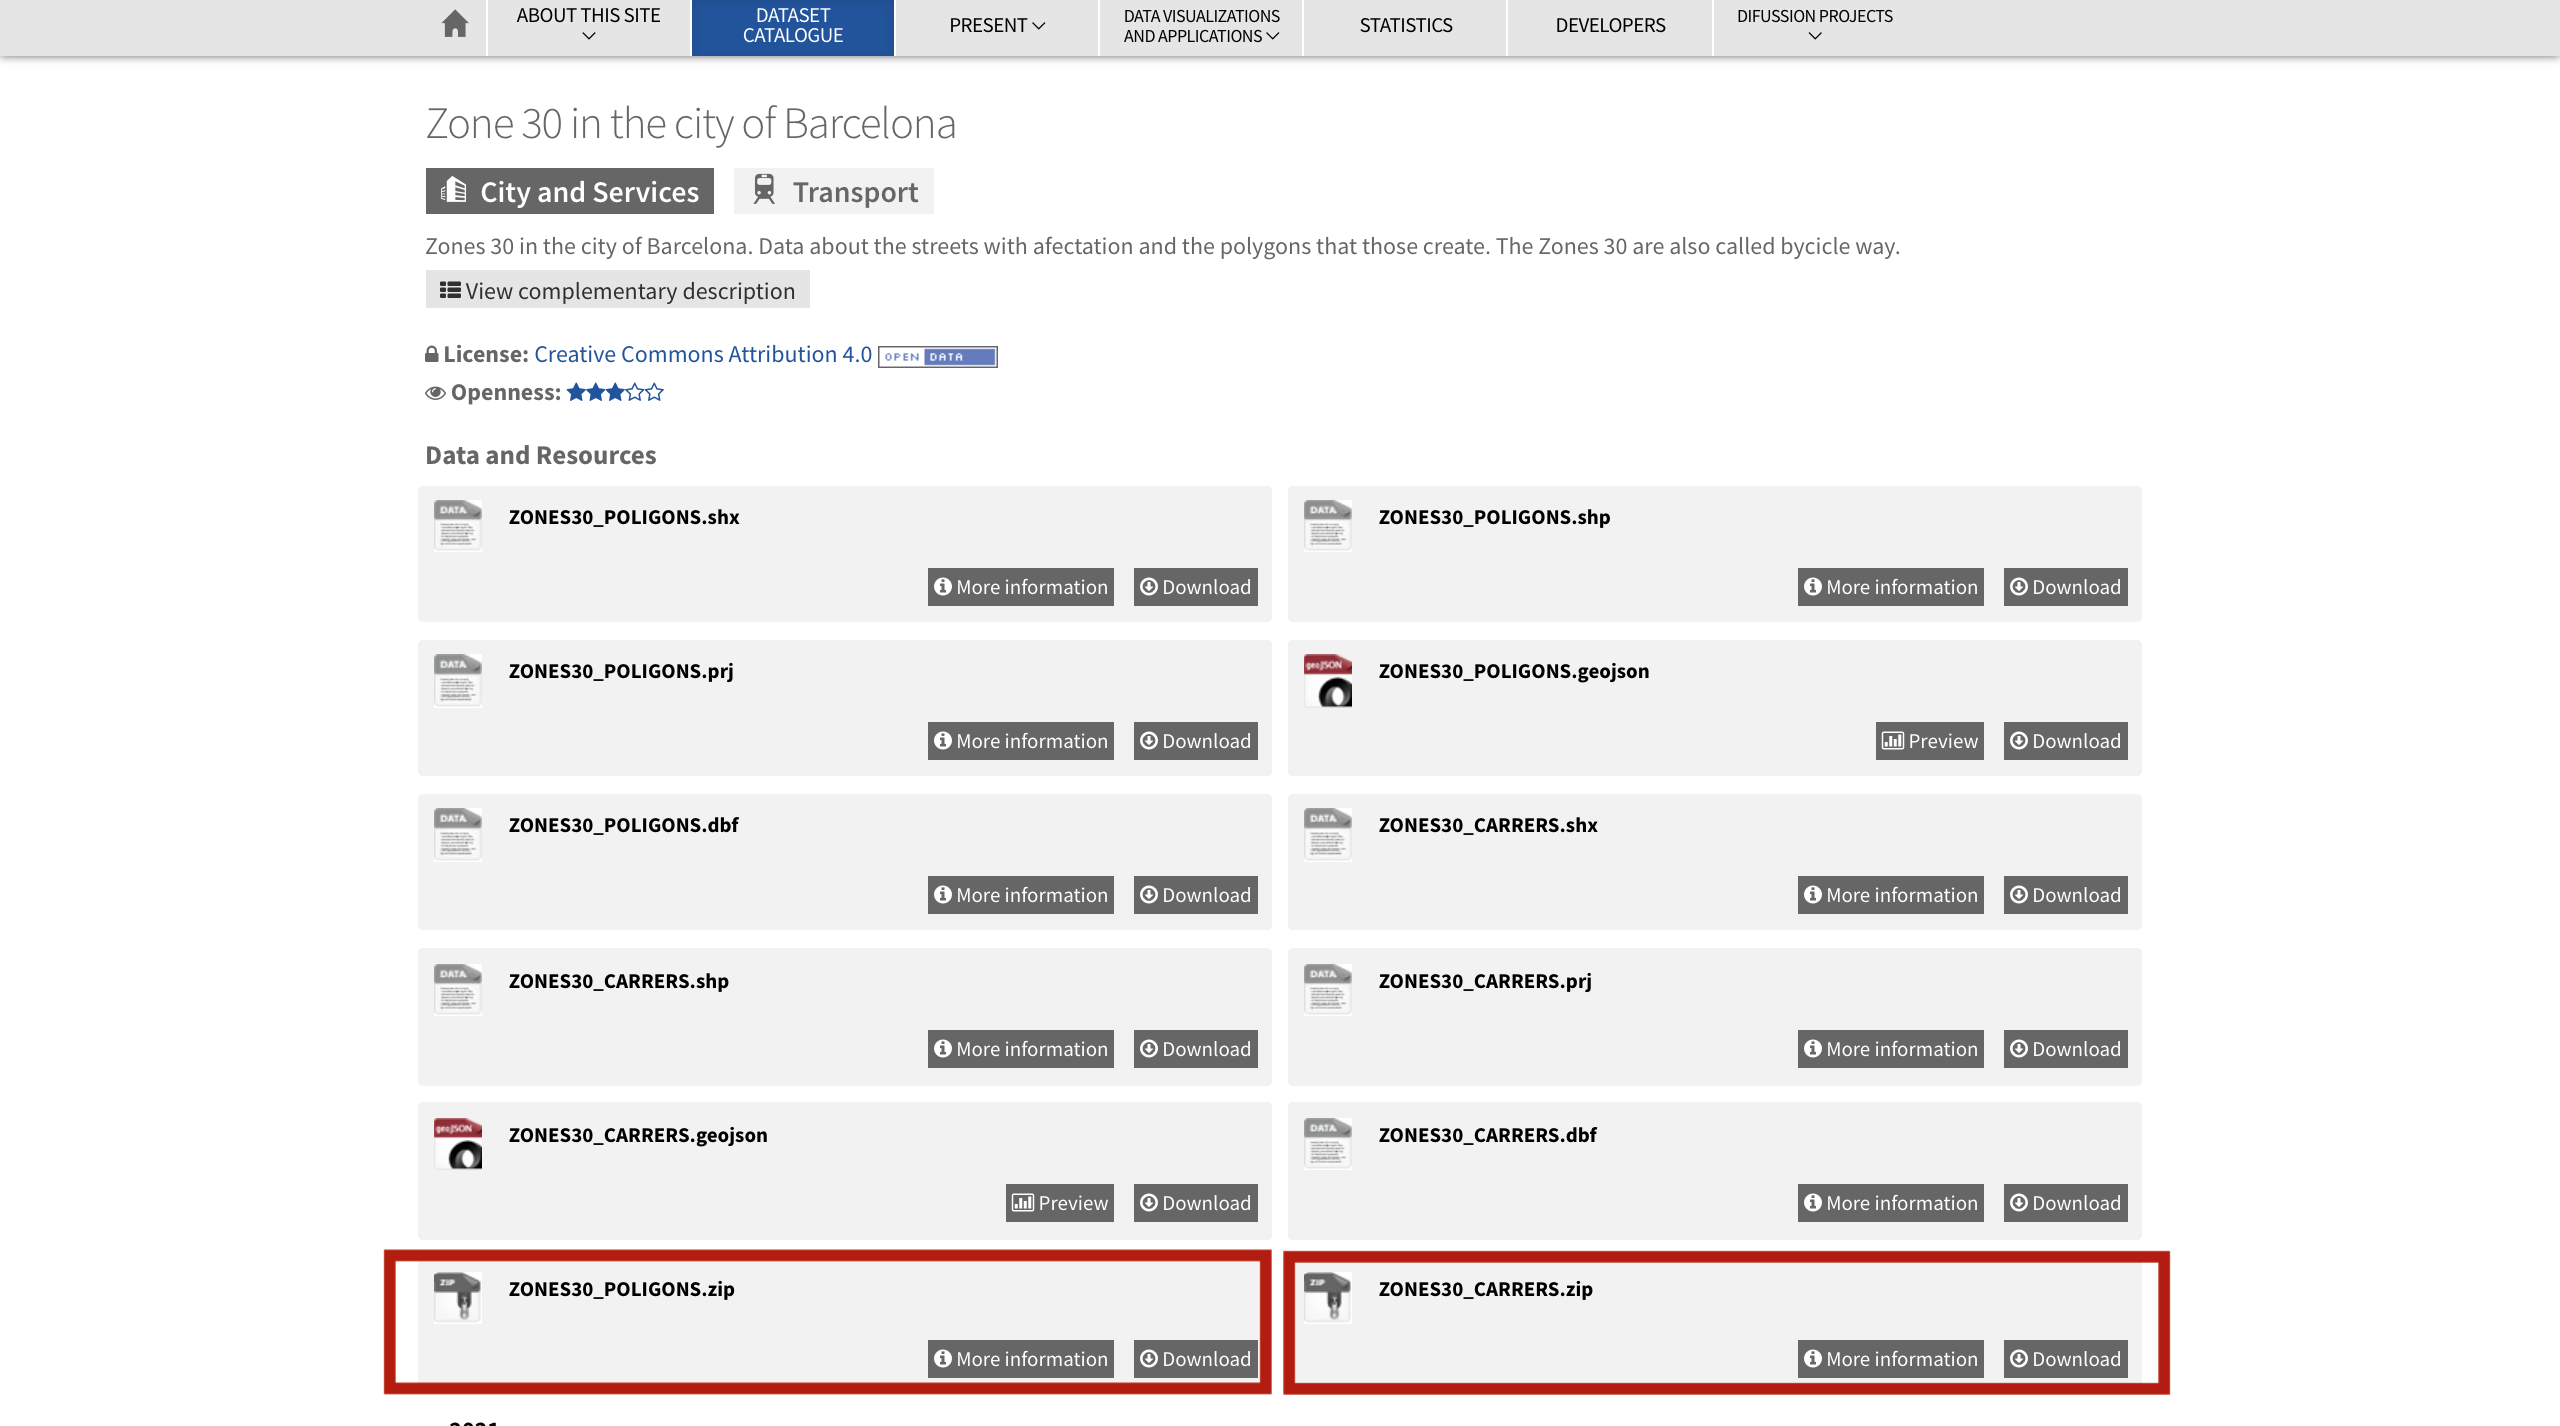
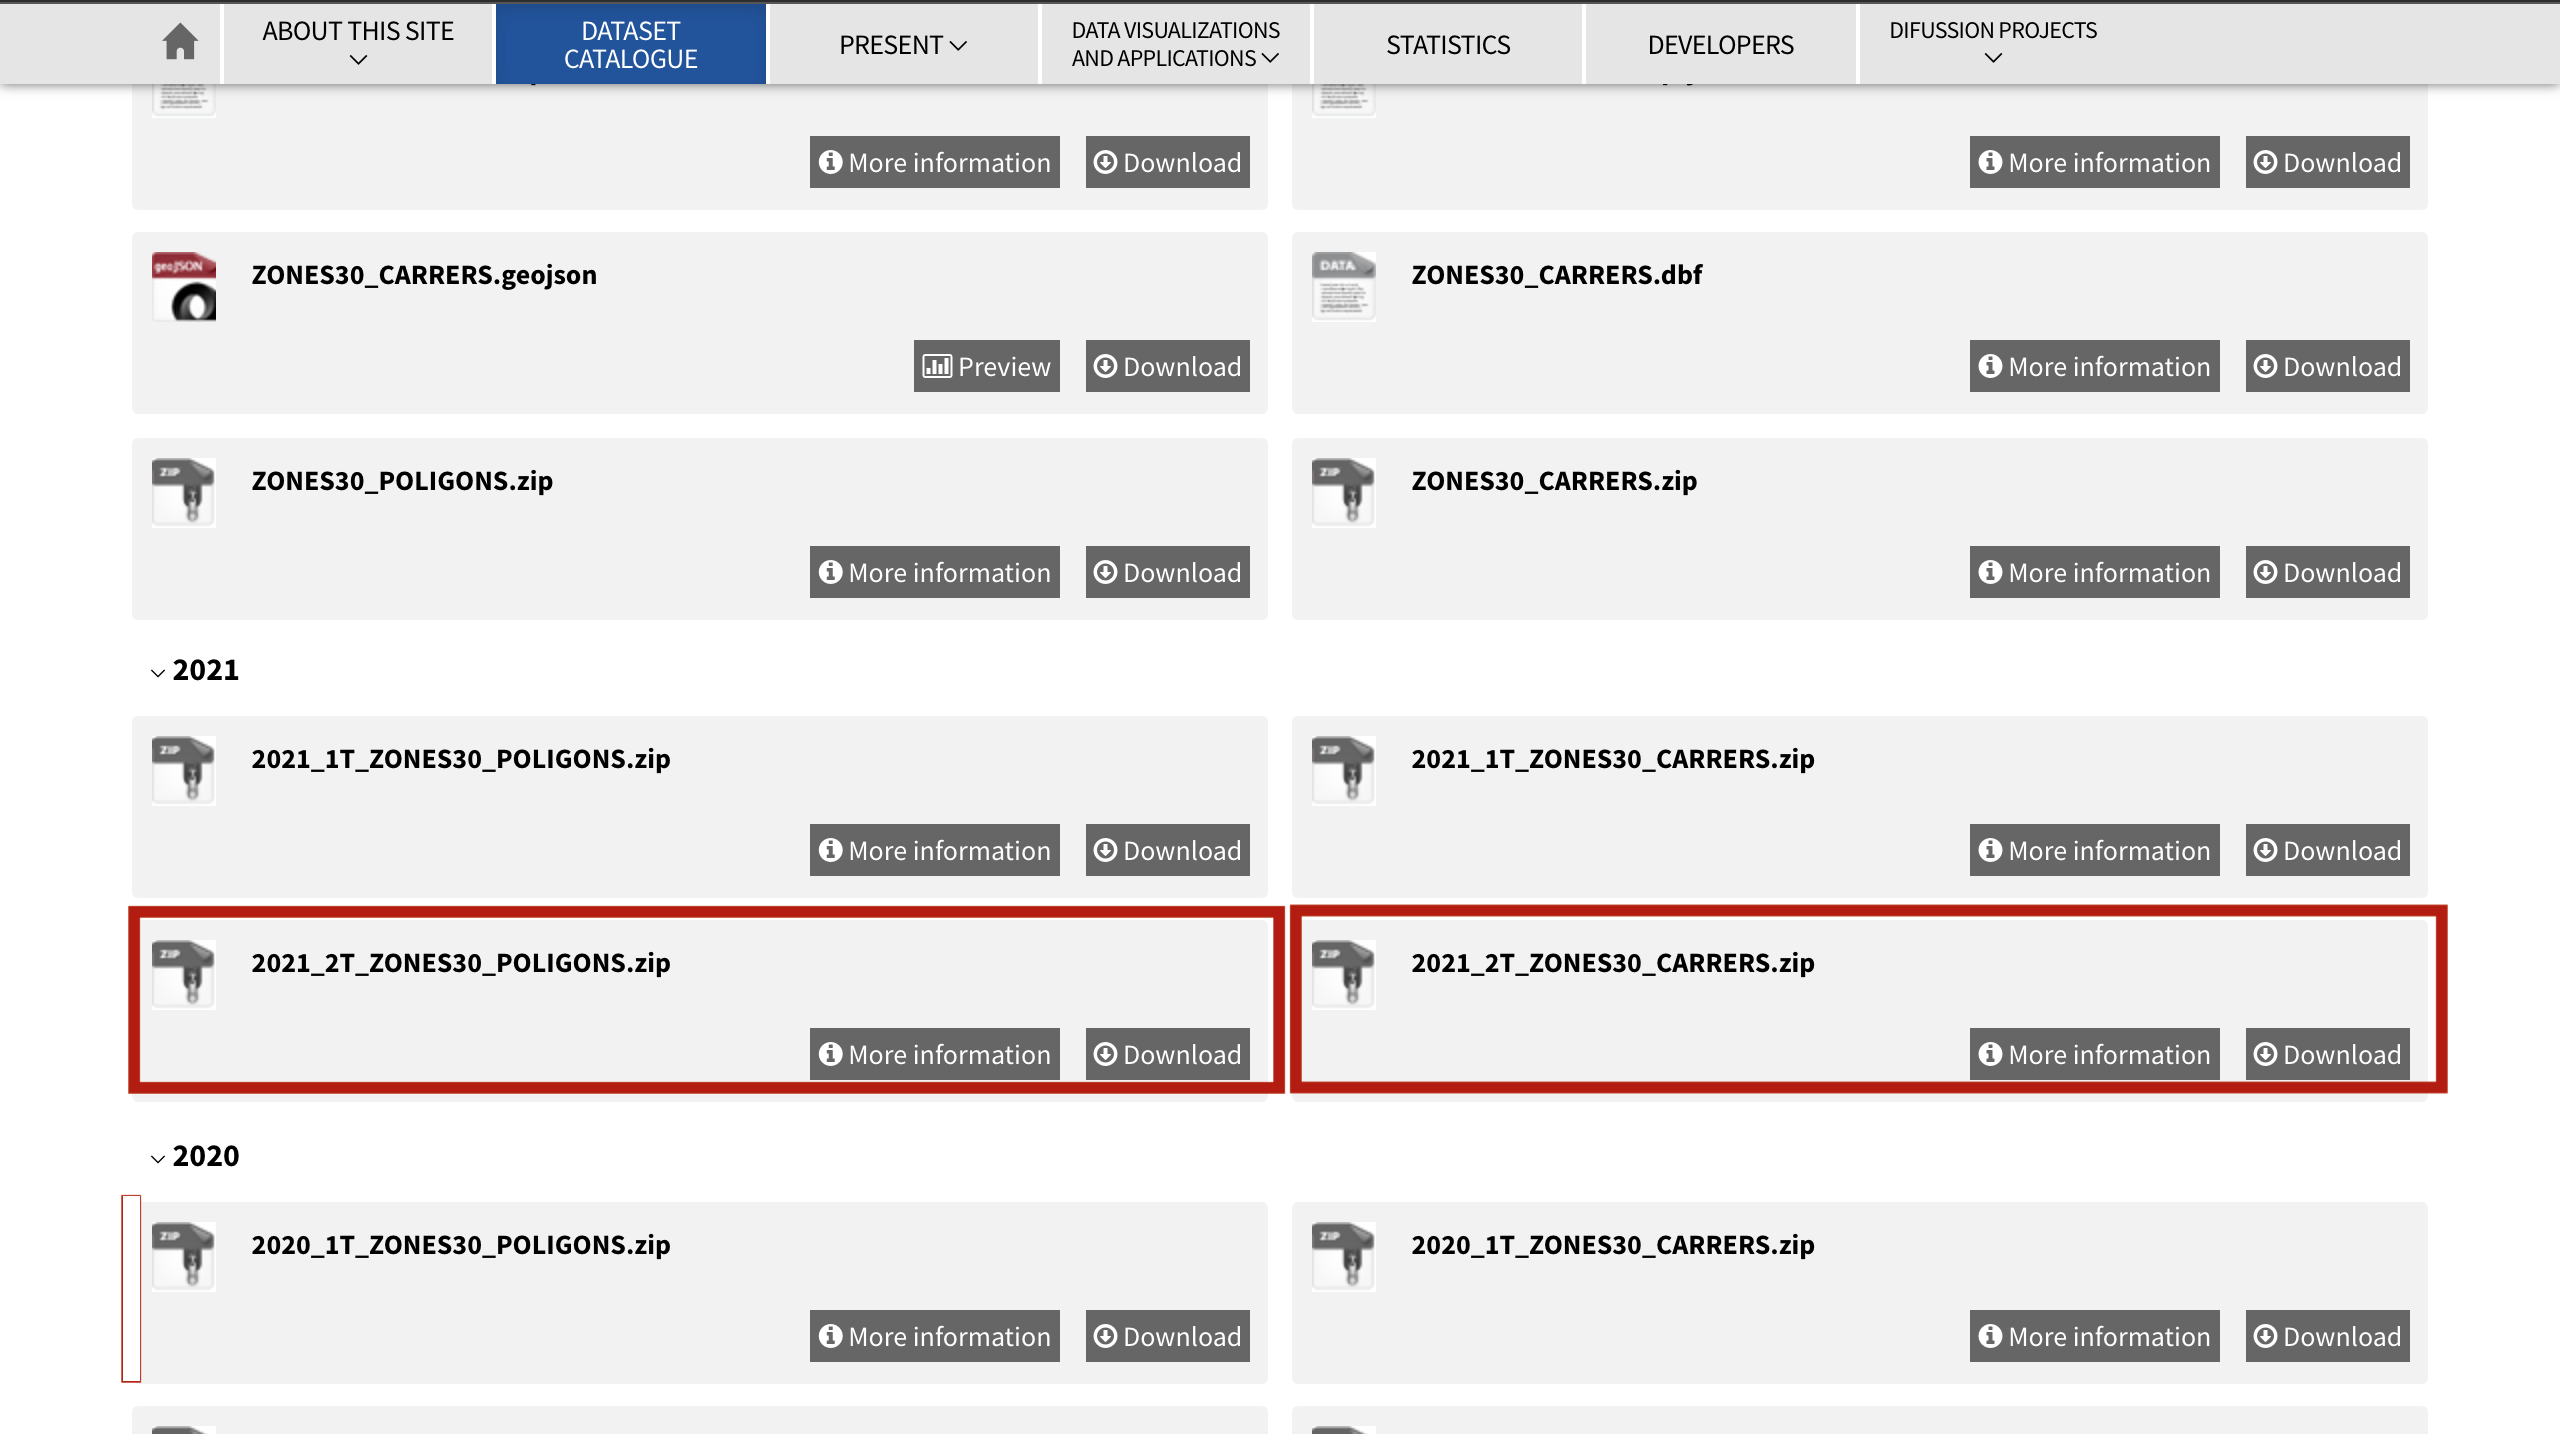
tutorial2: setting up your project

diff --git a/Session2/session2_tutorial.md b/Session2/session2_tutorial.md
@@ -30,7 +30,7 @@ Lecturer: Raphaëlle Roffo
 
 .
 
-### Downloading data from the Barcelona open data portal
+### 1. Downloading data from the Barcelona open data portal
 
 Today we'll look at the city of Barcelona and its green mobility infrastructure. Luckily, an open data portal is available for you to search for data. Go to https://opendata-ajuntament.barcelona.cat/data/en/dataset .
 
@@ -38,7 +38,7 @@ On the side panel, you can select the data formats you're interested in. Here, t
 
 <img src="../img/S2-01.png" width="700">
 
-Now you see a list of various datasets. We will be interested in datasets related to cycling paths. Before you start downloading anything, make sure you create in your Documents a dedicated folder where you'll save all your downloads. You can call it `Session2`.
+Now you see a list of various datasets. We will be interested in datasets related to cycling paths. Before you start downloading anything, make sure you create in your Documents a dedicated folder where you'll save all your downloads. You can call it `Session2`. Note that QGIS can get "cranky" if the folder sits on a Dropbox or some kind of cloud-based drive. Please choose a *local* location on your computer.
 
 
 These are the datasets we will be working with:
@@ -54,7 +54,7 @@ These are the datasets we will be working with:
 
   **/!\ Now, BE VERY CAREFUL! On most platforms, downloading a shapefile will lead to a download of a zip file that contain 4 files:  `*.shp`, `*.dbs`, `*.shx` and `*.prj`. However, on this data portal it's not the case and chosing to download the `*.shp` file will only download that single file. Note that this file would be unusable on its own! So make sure you download the `*.zip` file and keep everything in that file.**
   
-  *We'll actually download both the ZONES30-CARRERS Zip file, in which the Zone 30 streets are represented as lines, and the ZONES30-POLIGONS Zip file, where they're grouped in areas (polygons):*
+  *We'll actually download both the 2021_2T_ZONES30_CARRERS Zip file, in which the Zone 30 streets are represented as lines, and the 2021_2T_ZONES30_POLIGONS Zip file, where they're grouped in areas (polygons):*
   
   <img src="../img/S2-04.png" width="700">
   .
@@ -78,12 +78,26 @@ These are the datasets we will be working with:
   <img src="../img/S2-06.png" width="700">
 
 
-Now equipped with these 4 layers
+Once all of these files are downloaded, make sure you **unzip everything** before you move on to the next step. QGIS does not understand zip files and is not able to unzip them for you.
 
-### Setting up your QGIS project
+Now equipped with these 4 unzipped layers in your `Session2` folder, you are ready to open QGIS!
 
+### 2. Setting up your QGIS project
 
-### Loading data into your project
+Start a new blank project.
+In your browser panel, navigate to the location of your `Session2` folder. Because it's usually hidden in successive folders, I like to add the location as favourite.
+<img src="../img/S2-07.png" width="700">
+
+You can then rename the folder path to a simpler name such as "Intro Session 2". You can easily remove favourites from this right click menu.
+<img src="../img/S2-08.png" width="700">
+
+Next, and before you start doign anything else, save your project file. Navigate to your `Session2` folder and save the file using the default extension: `*.qgz`.
+
+<img src="../img/S2-09.png" width="700">
+
+<img src="../img/S2-10.png" width="700">
+
+### 3. Loading data into your project
 
 
 ### Exporting data / Saving in a different format
